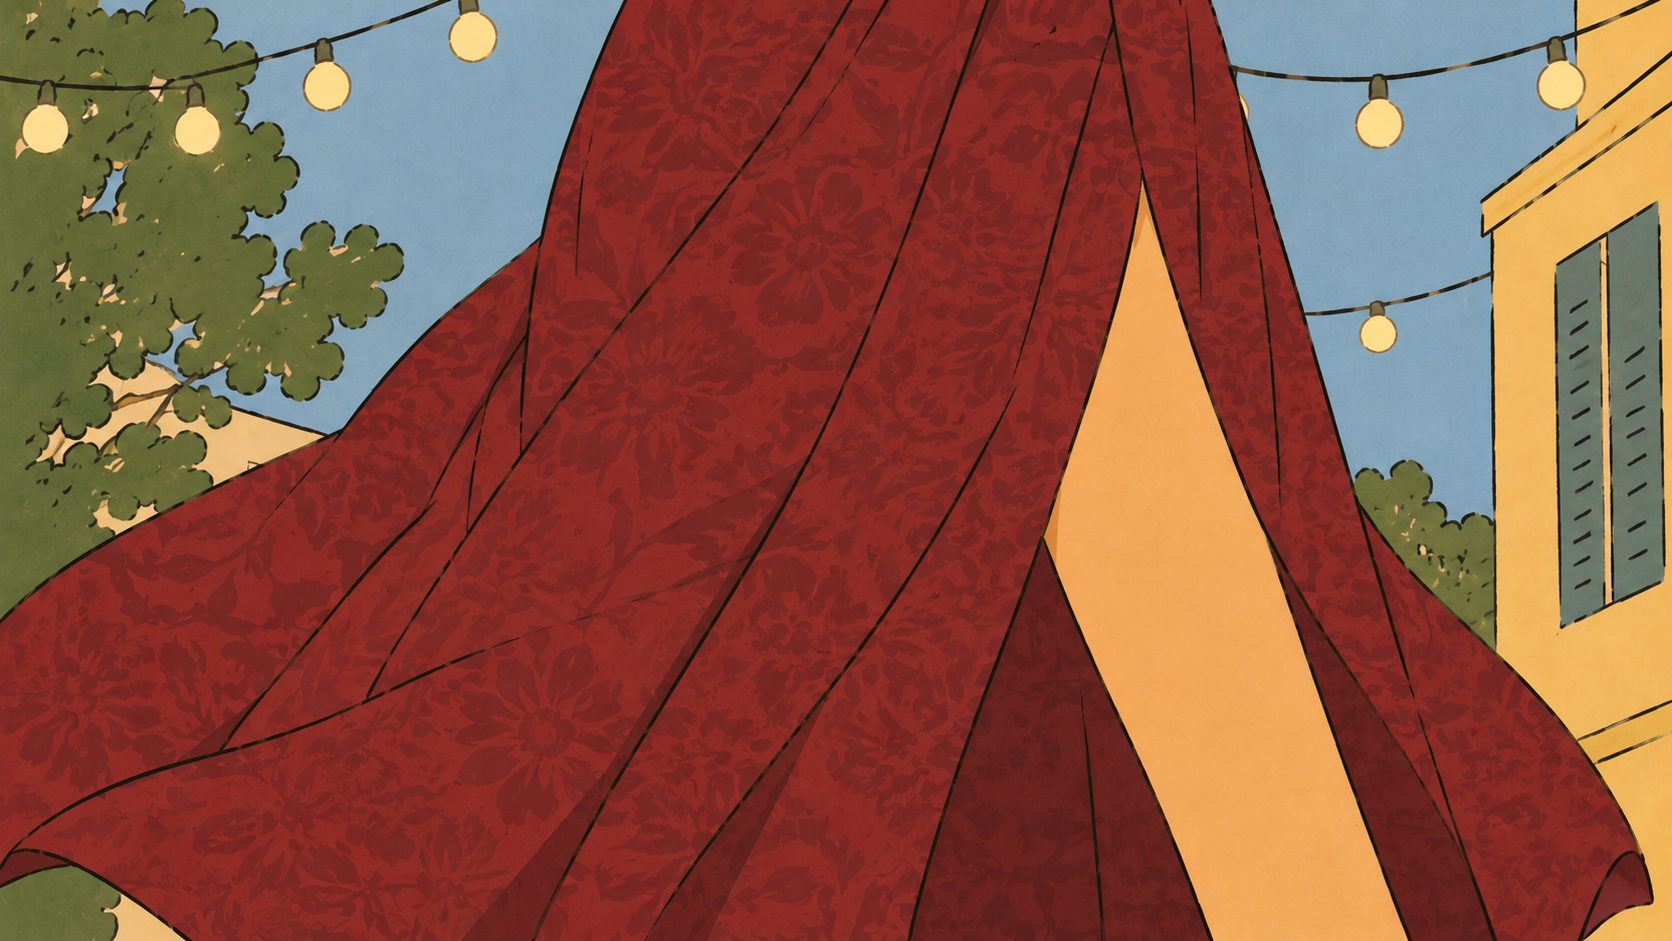
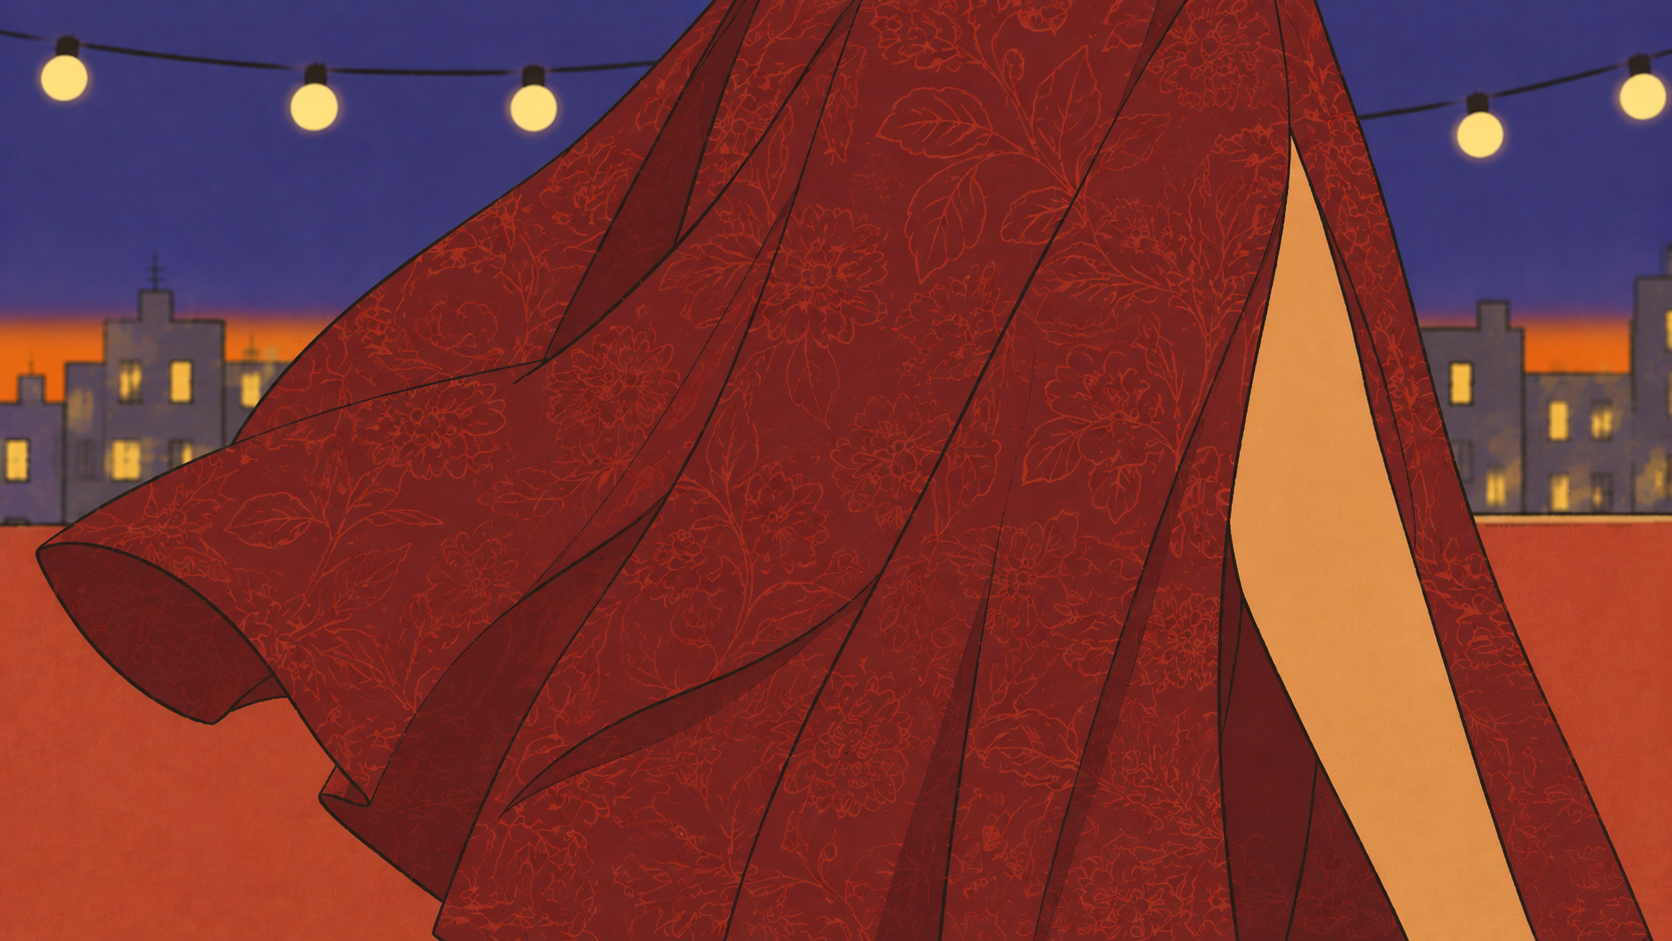
Grupo 10: imágenes nuevas de los planos 8 a 30 y rooftop 35 a 44, prompts con fondo sin celeste

diff --git a/grupos/grupo_10/final_fashion_film/prompts_listos.md b/grupos/grupo_10/final_fashion_film/prompts_listos.md
@@ -277,7 +277,7 @@ Flat European editorial illustration in the look of "The Parisianer" (Éditions 
 Use only these flat matte colors plus the dark ink line: mustard yellow, brick red, olive/forest green, burnt orange, dusty blue-grey, warm cream, plus the black of the head scarf and the brown of the hair. NO pink, NO neon.
 
 04 — SHOT
-Close-up of Lourdes's clothes in motion; her face is NOT in the shot. She is the character in the attached reference sheet: reproduce her outfit exactly as drawn in the sheet, with the same print and colors, even if they differ from the palette. Extreme close-up of the long cream dress with the green floral print filling the entire frame, the fabric rippling in the wind in soft folds. Only the fabric is visible, no person.
+Close-up of Lourdes's clothes in motion; her face is NOT in the shot. She is the character in the attached reference sheet: reproduce her outfit exactly as drawn in the sheet, with the same print and colors, even if they differ from the palette. Extreme close-up of the long cream dress with the green floral print filling the entire frame, the fabric rippling in the wind in soft folds. Only the fabric is visible, no person. The fabric fills the whole frame, so no sky is visible. If any background shows through, it is the green lawn or the warm orange sunset sky, NEVER light blue.
 
 05 — CAMERA
 Eye-level camera, straight on, never an aerial view, unless the shot says otherwise. Flat color zones for walls, sky and ground so the picture breathes.
@@ -302,7 +302,7 @@ Flat European editorial illustration in the look of "The Parisianer" (Éditions 
 Use only these flat matte colors plus the dark ink line: mustard yellow, brick red, olive/forest green, burnt orange, dusty blue-grey, warm cream, plus the black of the head scarf and the brown of the hair. NO pink, NO neon.
 
 04 — SHOT
-Close-up of Lourdes's clothes in motion; her face is NOT in the shot. She is the character in the attached reference sheet: reproduce her outfit exactly as drawn in the sheet, with the same print and colors, even if they differ from the palette. Close-up of the brown leather handbag resting on her shoulder, with its clasp and strap, one hand adjusting the strap, and the strap of her dress. The image is cropped at the chin: no face. Nothing else in her hands.
+Close-up of Lourdes's clothes in motion; her face is NOT in the shot. She is the character in the attached reference sheet: reproduce her outfit exactly as drawn in the sheet, with the same print and colors, even if they differ from the palette. Close-up of the brown leather handbag resting on her shoulder, with its clasp and strap, one hand adjusting the strap, and the strap of her dress. The image is cropped at the chin: no face. Nothing else in her hands. The background behind her is the green garden or the warm orange sunset sky, NEVER a light blue background.
 
 05 — CAMERA
 Eye-level camera, straight on, never an aerial view, unless the shot says otherwise. Flat color zones for walls, sky and ground so the picture breathes.
@@ -527,7 +527,7 @@ Flat European editorial illustration in the look of "The Parisianer" (Éditions 
 Use only these flat matte colors plus the dark ink line: mustard yellow, brick red, olive/forest green, burnt orange, dusty blue-grey, warm cream, plus the black of the head scarf and the brown of the hair. NO pink, NO neon.
 
 04 — SHOT
-Close-up of Lourdes's clothes in motion; her face is NOT in the shot. She is the character in the attached reference sheet: reproduce her outfit exactly as drawn in the sheet, with the same print and colors, even if they differ from the palette. Extreme close-up of the floral print of her wide-leg trousers filling the whole frame, the fabric swirling as she dances, with a few pieces of confetti passing. Only the fabric is visible, no person.
+Close-up of Lourdes's clothes in motion; her face is NOT in the shot. She is the character in the attached reference sheet: reproduce her outfit exactly as drawn in the sheet, with the same print and colors, even if they differ from the palette. Extreme close-up of the floral print of her wide-leg trousers filling the whole frame, the fabric swirling as she dances, with a few pieces of confetti passing. Only the fabric is visible, no person. The fabric fills the whole frame. If any background shows, it is the cobblestone street and the warm orange sunset of the carnival, NEVER a light blue sky.
 
 05 — CAMERA
 Eye-level camera, straight on, never an aerial view, unless the shot says otherwise. Flat color zones for walls, sky and ground so the picture breathes.
@@ -552,7 +552,7 @@ Flat European editorial illustration in the look of "The Parisianer" (Éditions 
 Use only these flat matte colors plus the dark ink line: mustard yellow, brick red, olive/forest green, burnt orange, dusty blue-grey, warm cream, plus the black of the head scarf and the brown of the hair. NO pink, NO neon.
 
 04 — SHOT
-Close-up of Lourdes's clothes in motion; her face is NOT in the shot. She is the character in the attached reference sheet: reproduce her outfit exactly as drawn in the sheet, with the same print and colors, even if they differ from the palette. Close-up of the tie at the neckline of her floral blouse and her necklace, with a few pieces of confetti landing on her shoulder. The image is cropped at the chin: no face.
+Close-up of Lourdes's clothes in motion; her face is NOT in the shot. She is the character in the attached reference sheet: reproduce her outfit exactly as drawn in the sheet, with the same print and colors, even if they differ from the palette. Close-up of the tie at the neckline of her floral blouse and her necklace, with a few pieces of confetti landing on her shoulder. The image is cropped at the chin: no face. The background behind her is the carnival street in warm orange sunset light, NEVER a light blue sky.
 
 05 — CAMERA
 Eye-level camera, straight on, never an aerial view, unless the shot says otherwise. Flat color zones for walls, sky and ground so the picture breathes.
@@ -777,7 +777,7 @@ Flat European editorial illustration in the look of "The Parisianer" (Éditions 
 Use only these flat matte colors plus the dark ink line: mustard yellow, brick red, olive/forest green, burnt orange, dusty blue-grey, warm cream, plus the black of the head scarf and the brown of the hair. NO pink, NO neon.
 
 04 — SHOT
-Close-up of Lourdes's clothes in motion; her face is NOT in the shot. She is the character in the attached reference sheet: reproduce her outfit exactly as drawn in the sheet, with the same print and colors, even if they differ from the palette. Extreme close-up of the stripes of her top and the wide white trousers fluttering in the sea wind, filling the whole frame. Only the fabric is visible, no person.
+Close-up of Lourdes's clothes in motion; her face is NOT in the shot. She is the character in the attached reference sheet: reproduce her outfit exactly as drawn in the sheet, with the same print and colors, even if they differ from the palette. Extreme close-up of the stripes of her top and the wide white trousers fluttering in the sea wind, filling the whole frame. Only the fabric is visible, no person. The stripes are exactly blue and white as drawn in the attached reference sheet, with NO yellow.
 
 05 — CAMERA
 Eye-level camera, straight on, never an aerial view, unless the shot says otherwise. Flat color zones for walls, sky and ground so the picture breathes.
@@ -1252,7 +1252,7 @@ Flat European editorial illustration in the look of "The Parisianer" (Éditions 
 Use only these flat matte colors plus the dark ink line: mustard yellow, brick red, olive/forest green, burnt orange, dusty blue-grey, warm cream, plus the black of the head scarf and the brown of the hair. NO pink, NO neon.
 
 04 — SHOT
-Close-up of Lourdes's clothes in motion; her face is NOT in the shot. She is the character in the attached reference sheet: reproduce her outfit exactly as drawn in the sheet, with the same print and colors, even if they differ from the palette. Extreme close-up of the knot of her orange floral sarong at her hip, the fabric moving in the breeze, filling the frame. Only the fabric is visible, no person.
+Close-up of Lourdes's clothes in motion; her face is NOT in the shot. She is the character in the attached reference sheet: reproduce her outfit exactly as drawn in the sheet, with the same print and colors, even if they differ from the palette. Extreme close-up of the knot of her orange floral sarong at her hip, the fabric moving in the breeze, filling the frame. Only the fabric is visible, no person. The fabric fills the whole frame. If any background shows, it is only the solid saturated burnt orange sunrise sky or the sand and sea, NEVER a light blue sky and NEVER buildings, balconies or houses.
 
 05 — CAMERA
 Eye-level camera, straight on, never an aerial view, unless the shot says otherwise. Flat color zones for walls, sky and ground so the picture breathes.
@@ -1277,7 +1277,7 @@ Flat European editorial illustration in the look of "The Parisianer" (Éditions 
 Use only these flat matte colors plus the dark ink line: mustard yellow, brick red, olive/forest green, burnt orange, dusty blue-grey, warm cream, plus the black of the head scarf and the brown of the hair. NO pink, NO neon.
 
 04 — SHOT
-Close-up of Lourdes's clothes in motion; her face is NOT in the shot. She is the character in the attached reference sheet: reproduce her outfit exactly as drawn in the sheet, with the same print and colors, even if they differ from the palette. Close-up of her collarbone and shoulder: her layered silver necklaces with a small heart pendant and the strap of her woven straw tote bag, with strands of her bob hair moving in the wind. The image is cropped at the chin: no face. Warm orange sunrise light.
+Close-up of Lourdes's clothes in motion; her face is NOT in the shot. She is the character in the attached reference sheet: reproduce her outfit exactly as drawn in the sheet, with the same print and colors, even if they differ from the palette. Close-up of her collarbone and shoulder: her layered silver necklaces with a small heart pendant and the strap of her woven straw tote bag, with strands of her bob hair moving in the wind. The image is cropped at the chin: no face. Warm orange sunrise light. The background behind her is only the solid saturated burnt orange sunrise sky, NEVER a light blue sky, and there are NO buildings, NO palm trees and NO string lights anywhere in the image.
 
 05 — CAMERA
 Eye-level camera, straight on, never an aerial view, unless the shot says otherwise. Flat color zones for walls, sky and ground so the picture breathes.

diff --git a/grupos/grupo_10/final_fashion_film/prompts_planos.md b/grupos/grupo_10/final_fashion_film/prompts_planos.md
@@ -158,7 +158,7 @@ Full-body shot of Lourdes, the character in the attached reference sheet, wearin
 **Archivo:** `plano_11_macro_tela_garden.png`
 
 ```
-Close-up of Lourdes's clothes in motion; her face is NOT in the shot. She is the character in the attached reference sheet: reproduce her outfit exactly as drawn in the sheet, with the same print and colors, even if they differ from the palette. Extreme close-up of the long cream dress with the green floral print filling the entire frame, the fabric rippling in the wind in soft folds. Only the fabric is visible, no person.
+Close-up of Lourdes's clothes in motion; her face is NOT in the shot. She is the character in the attached reference sheet: reproduce her outfit exactly as drawn in the sheet, with the same print and colors, even if they differ from the palette. Extreme close-up of the long cream dress with the green floral print filling the entire frame, the fabric rippling in the wind in soft folds. Only the fabric is visible, no person. The fabric fills the whole frame, so no sky is visible. If any background shows through, it is the green lawn or the warm orange sunset sky, NEVER light blue.
 ```
 
 **Plano 12 — Detalle de accesorio** (adjuntar: `looks/outfit_gardenparty.png`)
@@ -166,7 +166,7 @@ Close-up of Lourdes's clothes in motion; her face is NOT in the shot. She is the
 **Archivo:** `plano_12_detalle_cartera_garden.png`
 
 ```
-Close-up of Lourdes's clothes in motion; her face is NOT in the shot. She is the character in the attached reference sheet: reproduce her outfit exactly as drawn in the sheet, with the same print and colors, even if they differ from the palette. Close-up of the brown leather handbag resting on her shoulder, with its clasp and strap, one hand adjusting the strap, and the strap of her dress. The image is cropped at the chin: no face. Nothing else in her hands.
+Close-up of Lourdes's clothes in motion; her face is NOT in the shot. She is the character in the attached reference sheet: reproduce her outfit exactly as drawn in the sheet, with the same print and colors, even if they differ from the palette. Close-up of the brown leather handbag resting on her shoulder, with its clasp and strap, one hand adjusting the strap, and the strap of her dress. The image is cropped at the chin: no face. Nothing else in her hands. The background behind her is the green garden or the warm orange sunset sky, NEVER a light blue background.
 ```
 
 **Plano 13 — Close-up de la ropa en movimiento** (adjuntar: `looks/outfit_gardenparty.png`)
@@ -242,7 +242,7 @@ Full-body shot of Lourdes, the character in the attached reference sheet, wearin
 **Archivo:** `plano_21_macro_tela_carnaval.png`
 
 ```
-Close-up of Lourdes's clothes in motion; her face is NOT in the shot. She is the character in the attached reference sheet: reproduce her outfit exactly as drawn in the sheet, with the same print and colors, even if they differ from the palette. Extreme close-up of the floral print of her wide-leg trousers filling the whole frame, the fabric swirling as she dances, with a few pieces of confetti passing. Only the fabric is visible, no person.
+Close-up of Lourdes's clothes in motion; her face is NOT in the shot. She is the character in the attached reference sheet: reproduce her outfit exactly as drawn in the sheet, with the same print and colors, even if they differ from the palette. Extreme close-up of the floral print of her wide-leg trousers filling the whole frame, the fabric swirling as she dances, with a few pieces of confetti passing. Only the fabric is visible, no person. The fabric fills the whole frame. If any background shows, it is the cobblestone street and the warm orange sunset of the carnival, NEVER a light blue sky.
 ```
 
 **Plano 22 — Detalle de accesorio** (adjuntar: `looks/outfit_carnaval.png`)
@@ -250,7 +250,7 @@ Close-up of Lourdes's clothes in motion; her face is NOT in the shot. She is the
 **Archivo:** `plano_22_detalle_blusa_carnaval.png`
 
 ```
-Close-up of Lourdes's clothes in motion; her face is NOT in the shot. She is the character in the attached reference sheet: reproduce her outfit exactly as drawn in the sheet, with the same print and colors, even if they differ from the palette. Close-up of the tie at the neckline of her floral blouse and her necklace, with a few pieces of confetti landing on her shoulder. The image is cropped at the chin: no face.
+Close-up of Lourdes's clothes in motion; her face is NOT in the shot. She is the character in the attached reference sheet: reproduce her outfit exactly as drawn in the sheet, with the same print and colors, even if they differ from the palette. Close-up of the tie at the neckline of her floral blouse and her necklace, with a few pieces of confetti landing on her shoulder. The image is cropped at the chin: no face. The background behind her is the carnival street in warm orange sunset light, NEVER a light blue sky.
 ```
 
 **Plano 23 — Close-up de la ropa en movimiento** (adjuntar: `looks/outfit_carnaval.png`)
@@ -326,7 +326,7 @@ Medium-full shot of Lourdes, the character in the attached reference sheet, wear
 **Archivo:** `plano_31_macro_tela_mar.png`
 
 ```
-Close-up of Lourdes's clothes in motion; her face is NOT in the shot. She is the character in the attached reference sheet: reproduce her outfit exactly as drawn in the sheet, with the same print and colors, even if they differ from the palette. Extreme close-up of the stripes of her top and the wide white trousers fluttering in the sea wind, filling the whole frame. Only the fabric is visible, no person.
+Close-up of Lourdes's clothes in motion; her face is NOT in the shot. She is the character in the attached reference sheet: reproduce her outfit exactly as drawn in the sheet, with the same print and colors, even if they differ from the palette. Extreme close-up of the stripes of her top and the wide white trousers fluttering in the sea wind, filling the whole frame. Only the fabric is visible, no person. The stripes are exactly blue and white as drawn in the attached reference sheet, with NO yellow.
 ```
 
 **Plano 32 — Pelo y pañuelo al viento, de espaldas** (adjuntar: `looks/outfit_boatparty.png`)
@@ -486,7 +486,7 @@ Full-body shot of Lourdes, the character in the attached reference sheet, wearin
 **Archivo:** `plano_50_macro_tela_playa.png`
 
 ```
-Close-up of Lourdes's clothes in motion; her face is NOT in the shot. She is the character in the attached reference sheet: reproduce her outfit exactly as drawn in the sheet, with the same print and colors, even if they differ from the palette. Extreme close-up of the knot of her orange floral sarong at her hip, the fabric moving in the breeze, filling the frame. Only the fabric is visible, no person.
+Close-up of Lourdes's clothes in motion; her face is NOT in the shot. She is the character in the attached reference sheet: reproduce her outfit exactly as drawn in the sheet, with the same print and colors, even if they differ from the palette. Extreme close-up of the knot of her orange floral sarong at her hip, the fabric moving in the breeze, filling the frame. Only the fabric is visible, no person. The fabric fills the whole frame. If any background shows, it is only the solid saturated burnt orange sunrise sky or the sand and sea, NEVER a light blue sky and NEVER buildings, balconies or houses.
 ```
 
 **Plano 51 — Detalle de accesorio** (adjuntar: `looks/outfit_amanecerplaya.png`)
@@ -494,7 +494,7 @@ Close-up of Lourdes's clothes in motion; her face is NOT in the shot. She is the
 **Archivo:** `plano_51_detalle_collares_playa.png`
 
 ```
-Close-up of Lourdes's clothes in motion; her face is NOT in the shot. She is the character in the attached reference sheet: reproduce her outfit exactly as drawn in the sheet, with the same print and colors, even if they differ from the palette. Close-up of her collarbone and shoulder: her layered silver necklaces with a small heart pendant and the strap of her woven straw tote bag, with strands of her bob hair moving in the wind. The image is cropped at the chin: no face. Warm orange sunrise light.
+Close-up of Lourdes's clothes in motion; her face is NOT in the shot. She is the character in the attached reference sheet: reproduce her outfit exactly as drawn in the sheet, with the same print and colors, even if they differ from the palette. Close-up of her collarbone and shoulder: her layered silver necklaces with a small heart pendant and the strap of her woven straw tote bag, with strands of her bob hair moving in the wind. The image is cropped at the chin: no face. Warm orange sunrise light. The background behind her is only the solid saturated burnt orange sunrise sky, NEVER a light blue sky, and there are NO buildings, NO palm trees and NO string lights anywhere in the image.
 ```
 
 **Plano 52 — Close-up de la ropa en movimiento** (adjuntar: `looks/outfit_amanecerplaya.png`)
